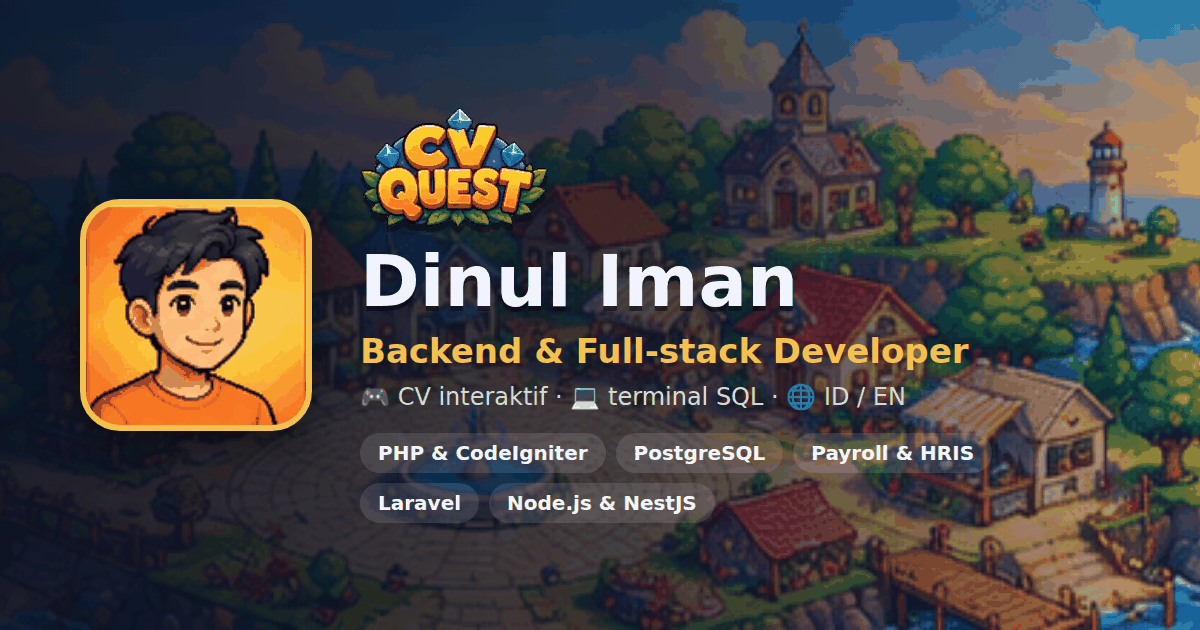
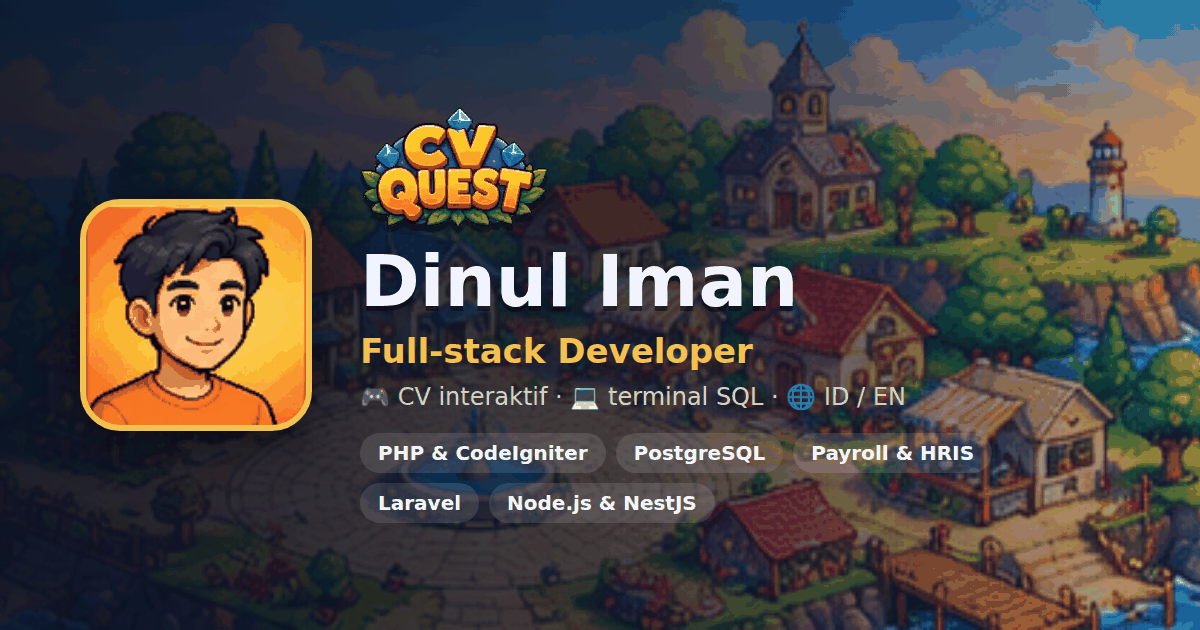
Use Full-stack Developer as the headline role
Claude-Session: https://claude.ai/code/session_01W9YLot25hx4JXdGVa2xRVh

diff --git a/js/data.js b/js/data.js
@@ -20,13 +20,13 @@
 
   window.CV = {
     name: NAME,
-    role: "Backend & Full-stack Developer",
+    role: "Full-stack Developer",
     location: "Jakarta, Indonesia",
     tagline: "Membangun sistem backend yang cepat, rapi, dan bisa diandalkan — dari payroll sampai pipeline data.",
 
     about: [
       "Halo! Saya Dinul Iman, lulusan S1 Teknologi Informasi Universitas Sumatera Utara yang berfokus pada " +
-        "backend dan full-stack development. Sehari-hari saya bekerja dengan PHP, TypeScript, Node.js, dan " +
+        "full-stack development, dengan pengalaman terkuat di backend dan database. Sehari-hari saya bekerja dengan PHP, TypeScript, Node.js, dan " +
         "database relasional seperti PostgreSQL dan Oracle.",
       "Pengalaman paling menonjol saya adalah mengerjakan Payroll Management System untuk PT PELNI sebagai " +
         "programmer di PT Solusi Integrasi Utama (vendor PELNI). Sistem ini melayani " +
@@ -180,7 +180,7 @@
         home: [16, 14],
         lines: [
           "Selamat datang di Desa CV! 👋",
-          `Di sini kamu bisa mengenal ${NAME}, developer backend & full-stack dari Jakarta.`,
+          `Di sini kamu bisa mengenal ${NAME}, full-stack developer dari Jakarta.`,
           "Setiap bangunan berisi satu bagian CV. Masuk saja, pintunya selalu terbuka!",
         ],
       },
@@ -229,13 +229,13 @@
   //  VERSI INGGRIS (dipakai saat pengunjung memilih English)
   // ===========================================================
   window.CV_EN = {
-    role: "Backend & Full-stack Developer",
+    role: "Full-stack Developer",
     location: "Jakarta, Indonesia",
     tagline: "Building fast, clean and reliable backend systems — from payroll to data pipelines.",
 
     about: [
       "Hi! I'm Dinul Iman, an Information Technology graduate from Universitas Sumatera Utara focused on " +
-        "backend and full-stack development. Day to day I work with PHP, TypeScript, Node.js and relational " +
+        "full-stack development, with my strongest experience in backend and databases. Day to day I work with PHP, TypeScript, Node.js and relational " +
         "databases such as PostgreSQL and Oracle.",
       "My most notable work is the Payroll Management System I worked on for PT PELNI as a programmer at " +
         "PT Solusi Integrasi Utama, a PELNI vendor. It serves around 4,800–5,000 " +
@@ -355,7 +355,7 @@
         name: "Village Chief",
         lines: [
           "Welcome to CV Village! 👋",
-          `Here you can get to know ${NAME}, a backend & full-stack developer from Jakarta.`,
+          `Here you can get to know ${NAME}, a full-stack developer from Jakarta.`,
           "Each building holds one part of the CV. Come on in, the doors are always open!",
         ],
       },

diff --git a/index.html b/index.html
@@ -4,12 +4,12 @@
   <meta charset="utf-8" />
   <meta name="viewport" content="width=device-width, initial-scale=1, viewport-fit=cover, user-scalable=no" />
   <title>CV Quest</title>
-  <meta name="description" content="Dinul Iman — Backend & Full-stack Developer. CV interaktif berbentuk game RPG: jelajahi desa, kumpulkan skill, dan mainkan simulasi optimasi payroll." />
+  <meta name="description" content="Dinul Iman — Full-stack Developer. CV interaktif berbentuk game RPG: jelajahi desa, kumpulkan skill, dan mainkan simulasi optimasi payroll." />
   <meta name="theme-color" content="#1d5f9c" />
   <!-- preview saat link dibagikan (WhatsApp, LinkedIn, X, dll.) -->
   <meta property="og:type" content="website" />
   <meta property="og:title" content="Dinul Iman — CV Quest" />
-  <meta property="og:description" content="Backend & Full-stack Developer · Payroll, PostgreSQL, Oracle, NestJS. Jelajahi CV interaktif berbentuk game RPG!" />
+  <meta property="og:description" content="Full-stack Developer · Payroll, PostgreSQL, Oracle, NestJS. Jelajahi CV interaktif berbentuk game RPG!" />
   <meta property="og:image" content="assets/og.png" />
   <meta property="og:image:width" content="1200" />
   <meta property="og:image:height" content="630" />
